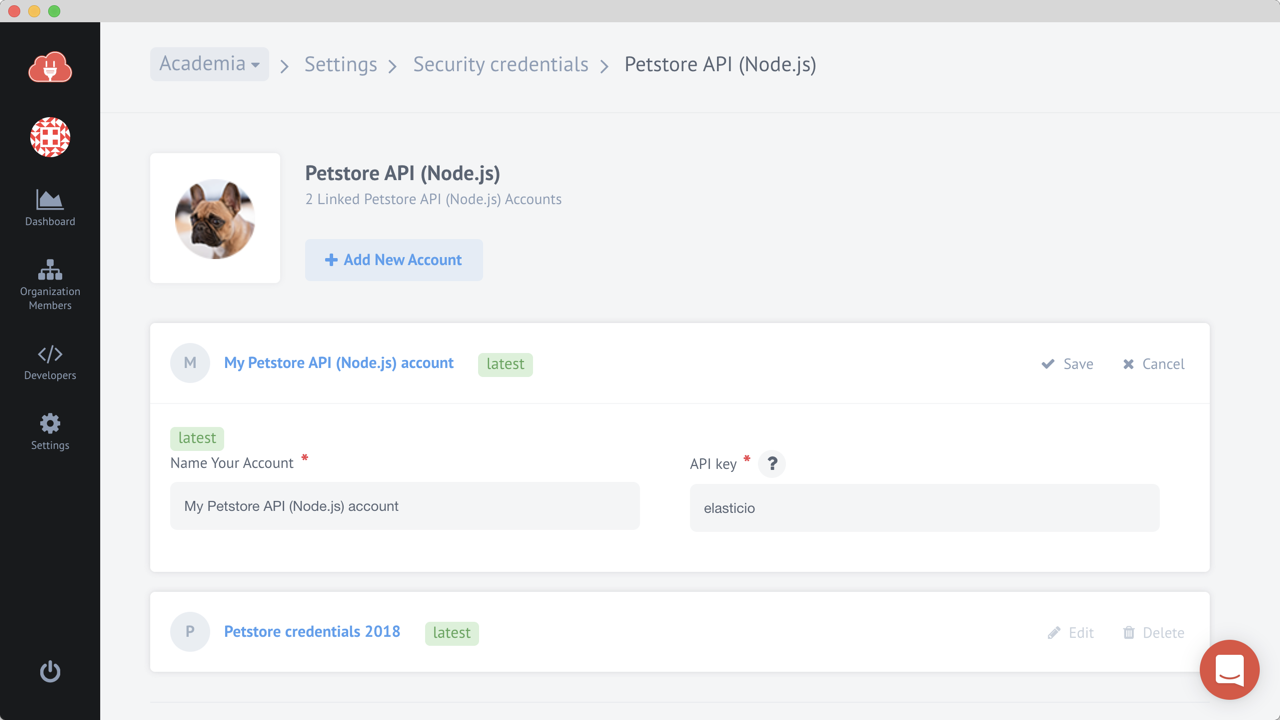
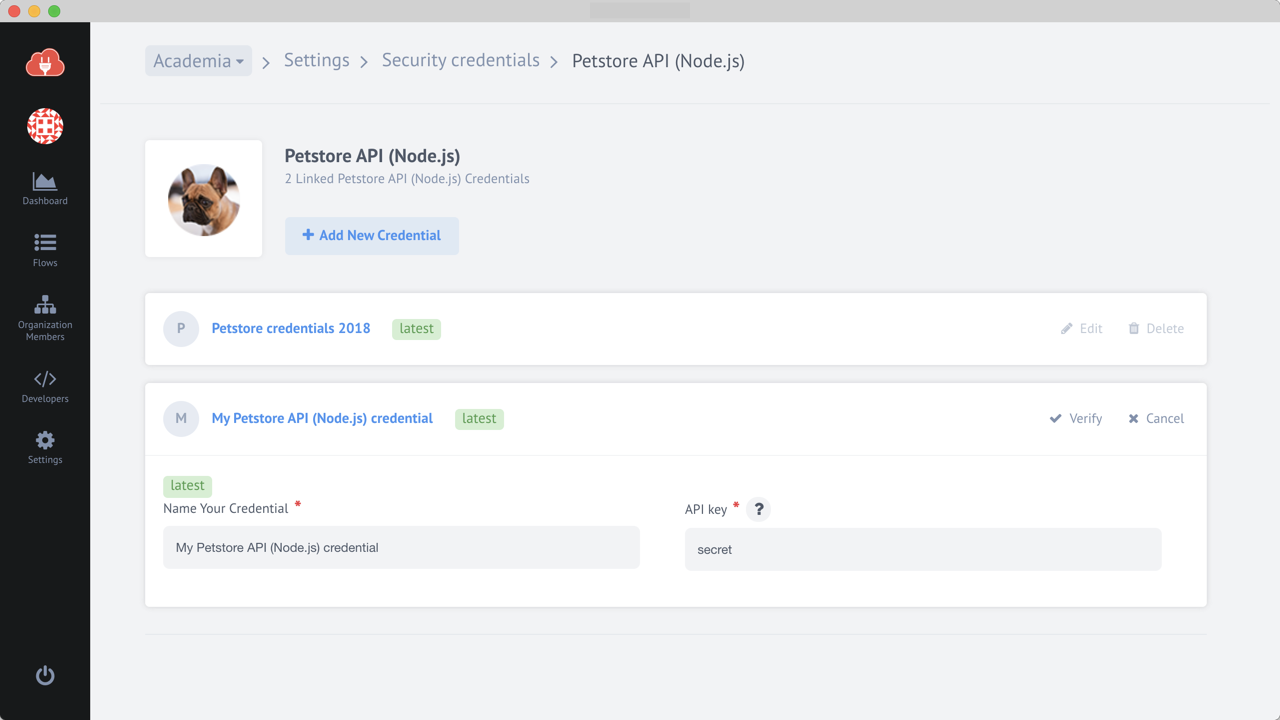
credentials page is done

diff --git a/_getting-started/credential.md b/_getting-started/credential.md
@@ -9,19 +9,19 @@ category: integration-flow
 An [integration flow](integration-flow) runs on behalf of a person or an
 organization to synchronize data between multiple applications. Each step
 of an integration flow is accessing a particular application, for example
-through an API, in order to retrieve, store or update some data. Usually
-an API requires a client to authenticate before the data can be access.
-This is each step of an integration flow needs a `credential`. Simply
-spoken, a credential is an object holding the required information to
+through an API, to retrieve, store or update some data. Usually
+an API requires a client to authenticate before the data can be accessed.
+Each step of an integration flow needs a `credential`. Simply
+put, a credential is an object holding the required information to
 authenticate with an API. Let's have a look at a couple of credential
 objects:
 
-* API Key: if the integration component is sending requests to a REST API
+*   **API Key**: if the integration component is sending requests to a REST API
 using API key for authorization, then a credential is a simple object
 holding the API key.
-* OAuth2: In case of a component authorizing through OAuth2, the credential
+*   **OAuth2**: In case of a component authorizing through OAuth2, the credential
 object holds multiple values, such as `access_key`, `refresh_key`, `scope`, etc.
-* Database credentials: If a component goes directly into an application's
+*   **Database credentials**: If a component goes directly into an application's
 database, the credential object holds database host url, port, database name,
 username, password.
 
@@ -34,17 +34,17 @@ component or any other API.
 
 When [creating a flow](first-flow) an credential must be chosen. You can
 either chose an existing one or create a new one. The following screenshot
-demonstrates how a credential is created for a trigger component for the
-[Petstore API](https://petstore.elastic.io/docs/).
+demonstrates how the credential is created for the [Petstore API](https://petstore.elastic.io/docs/)
+component.
 
-![Create the credentials to access](/assets/img/getting-started/first-flow/getting-started-flow-003.png "Create the credentials to access")
+![Create the credentials to access](/assets/img/getting-started/credential/credentials-create.png "Create the credentials to access")
 
 As you can see in the screenshot above, a user is asked to provide values
 for two input fields:
 *   **Account name** - an optional name for this credential
 *   **API key** - an API key to authenticate with the
 [Petstore API]({{site.data.tenant.petStoreDocs}}). You can use the
-`{{site.data.tenant.petApiKey}}` API key to try out this API.
+`{{site.data.tenant.petStoreApiKey}}` API key to try out this API.
 
 Once a credential is saved, it will be linked with the current step of
 the flow. It can be also reused in other steps of the same flow or other
@@ -59,7 +59,7 @@ have an on overview of all your credentials just go to `Settings` page
 where you will find the `Security Credentials` area, as shown in the
 screenshot below.
 
-![The settings page](/assets/img/getting-started/tour/tour6.png "The settings page")
+![The settings page](/assets/img/getting-started/credential/credentials-navigateto.png "The settings page")
 
 Now go into `Security Credentials` to find an overview of credentials,
 shown in the following screenshot:
@@ -75,7 +75,7 @@ credentials for a given component, as shown in the screenshot below.
 
 ![Component credentials](/assets/img/getting-started/credential/credentials-petstore.png "Component credentials")
 
-In the screenshot above you can see al available credentials for the
+In the screenshot above you can see all available credentials for the
 `Petstore` component belonging to a user. A new credential can be added by
 pressing the `Add New Account` button. An existing credential can also be
 edited or deleted. This is accomplished by clicking the `Edit` or `Delete`
@@ -86,4 +86,3 @@ is edited.
 
 
 > **Note** Please note that it is not possible to delete a credential used by an active integration flow as the flow would become broken. If you try to delete such a credential, a corresponding error message will be displays. Please delete these flow first or reconfigure them to use another credentials.
-
